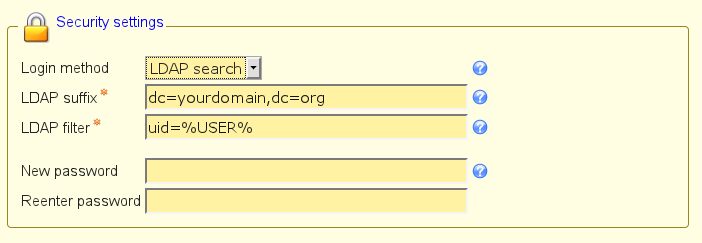
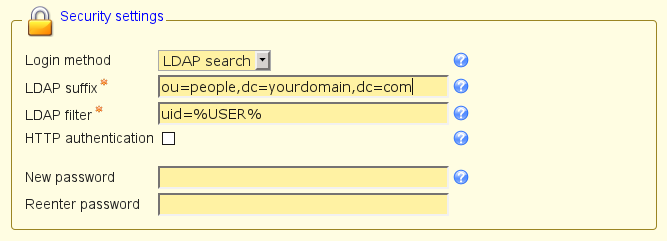
HTTP authentication

Changed region(s): [[0.0, 0.029, 0.9895, 0.9585], [0.1499, 0.3195, 0.1799, 0.3485]]

diff --git a/lam/templates/lib/500_lam.js b/lam/templates/lib/500_lam.js
@@ -157,11 +157,13 @@ function configLoginMethodChanged() {
 		jQuery('textarea[name=admins]').parent().parent().show();
 		jQuery('input[name=loginSearchSuffix]').parent().parent().hide();
 		jQuery('input[name=loginSearchFilter]').parent().parent().hide();
+		jQuery('input[name=httpAuthentication]').parent().parent().hide();
 	}
 	else {
 		jQuery('textarea[name=admins]').parent().parent().hide();
 		jQuery('input[name=loginSearchSuffix]').parent().parent().show();
 		jQuery('input[name=loginSearchFilter]').parent().parent().show();
+		jQuery('input[name=httpAuthentication]').parent().parent().show();
 	}
 }
 

diff --git a/lam/templates/login.php b/lam/templates/login.php
@@ -285,7 +285,12 @@ function display_LoginPage($config_object) {
 										echo '</select>';
 									}
 									else {
-										echo '<input type="text" name="username" tabindex="1">';
+										if ($config_object->getHttpAuthentication() == 'true') {
+											echo htmlspecialchars($_SERVER['PHP_AUTH_USER']);
+										}
+										else {
+											echo '<input type="text" name="username" tabindex="1">';
+										}
 									}
 									?>
 								</td>
@@ -297,7 +302,14 @@ function display_LoginPage($config_object) {
 									?>
 								</b>&nbsp;&nbsp;</td>
 								<td style="border-style:none" height="35" align="left">
-									<input type="password" name="passwd" tabindex="2">
+									<?php
+										if (($config_object->getLoginMethod() == LAMConfig::LOGIN_SEARCH) && ($config_object->getHttpAuthentication() == 'true')) {
+											echo '**********';
+										}
+										else {
+											echo '<input type="password" name="passwd" tabindex="2">';
+										}
+									?>
 								</td>
 							</tr>
 							<tr>
@@ -432,55 +444,55 @@ if(!empty($_POST['checklogin'])) {
 
 	$_SESSION['ldap'] = new Ldap($_SESSION['config']); // Create new Ldap object
 
-	if($_POST['passwd'] == "") {
-		logNewMessage(LOG_DEBUG, "Empty password for login");
-		$error_message = _("Empty password submitted. Please try again.");
-		display_LoginPage($_SESSION['config']); // Empty password submitted. Return to login page.
-		exit();
+	$clientSource = $_SERVER['REMOTE_ADDR'];
+	if (isset($_SERVER['REMOTE_HOST'])) {
+		$clientSource .= '/' . $_SERVER['REMOTE_HOST'];
+	}
+	if (($_SESSION['config']->getLoginMethod() == LAMConfig::LOGIN_SEARCH) && ($_SESSION['config']->getHttpAuthentication() == 'true')) {
+		$username = $_SERVER['PHP_AUTH_USER'];
+		$password = $_SERVER['PHP_AUTH_PW'];
 	}
 	else {
-		$clientSource = $_SERVER['REMOTE_ADDR'];
-		if (isset($_SERVER['REMOTE_HOST'])) {
-			$clientSource .= '/' . $_SERVER['REMOTE_HOST'];
+		if($_POST['passwd'] == "") {
+			logNewMessage(LOG_DEBUG, "Empty password for login");
+			$error_message = _("Empty password submitted. Please try again.");
+			display_LoginPage($_SESSION['config']); // Empty password submitted. Return to login page.
+			exit();
 		}
 		if (get_magic_quotes_gpc() == 1) {
 			$_POST['passwd'] = stripslashes($_POST['passwd']);
 		}
 		$username = $_POST['username'];
-		// search user in LDAP if needed
-		if ($_SESSION['config']->getLoginMethod() == LAMConfig::LOGIN_SEARCH) {
-			$searchFilter = $_SESSION['config']->getLoginSearchFilter();
-			$searchFilter = str_replace('%USER%', $username ,$searchFilter);
-			$searchSuccess = true;
-			$searchError = '';
-			$searchLDAP = new Ldap($_SESSION['config']);
-			$searchLDAPResult = $searchLDAP->connect('', '', true);
-			if (! ($searchLDAPResult == 0)) {
-				$searchSuccess = false;
-				$searchError = _('Cannot connect to specified LDAP server. Please try again.') . ' ' . @ldap_error($searchLDAP->server());
-			}
-			else {
-				$searchResult = @ldap_search($searchLDAP->server(), $_SESSION['config']->getLoginSearchSuffix(), $searchFilter, array('dn'), 0, 0, 0, LDAP_DEREF_NEVER);
-				if ($searchResult) {
-					$searchInfo = @ldap_get_entries($searchLDAP->server(), $searchResult);
-					if ($searchInfo) {
-						cleanLDAPResult($searchInfo);
-						if (sizeof($searchInfo) == 0) {
-							$searchSuccess = false;
-							$searchError = _('Wrong password/user name combination. Please try again.');
-						}
-						elseif (sizeof($searchInfo) > 1) {
-							$searchSuccess = false;
-							$searchError = _('The given user name matches multiple LDAP entries.');
-						}
-						else {
-							$username = $searchInfo[0]['dn'];
-						}
+		$password = $_POST['passwd'];
+	}
+	// search user in LDAP if needed
+	if ($_SESSION['config']->getLoginMethod() == LAMConfig::LOGIN_SEARCH) {
+		$searchFilter = $_SESSION['config']->getLoginSearchFilter();
+		$searchFilter = str_replace('%USER%', $username ,$searchFilter);
+		$searchSuccess = true;
+		$searchError = '';
+		$searchLDAP = new Ldap($_SESSION['config']);
+		$searchLDAPResult = $searchLDAP->connect('', '', true);
+		if (! ($searchLDAPResult == 0)) {
+			$searchSuccess = false;
+			$searchError = _('Cannot connect to specified LDAP server. Please try again.') . ' ' . @ldap_error($searchLDAP->server());
+		}
+		else {
+			$searchResult = @ldap_search($searchLDAP->server(), $_SESSION['config']->getLoginSearchSuffix(), $searchFilter, array('dn'), 0, 0, 0, LDAP_DEREF_NEVER);
+			if ($searchResult) {
+				$searchInfo = @ldap_get_entries($searchLDAP->server(), $searchResult);
+				if ($searchInfo) {
+					cleanLDAPResult($searchInfo);
+					if (sizeof($searchInfo) == 0) {
+						$searchSuccess = false;
+						$searchError = _('Wrong password/user name combination. Please try again.');
+					}
+					elseif (sizeof($searchInfo) > 1) {
+						$searchSuccess = false;
+						$searchError = _('The given user name matches multiple LDAP entries.');
 					}
 					else {
-						$searchSuccess = false;
-						$searchError = _('Unable to find the user name in LDAP.');
-						if (ldap_errno($searchLDAP->server()) != 0) $searchError .= ' ' . ldap_error($searchLDAP->server());
+						$username = $searchInfo[0]['dn'];
 					}
 				}
 				else {
@@ -489,53 +501,58 @@ if(!empty($_POST['checklogin'])) {
 					if (ldap_errno($searchLDAP->server()) != 0) $searchError .= ' ' . ldap_error($searchLDAP->server());
 				}
 			}
-			if (!$searchSuccess) {
-				$error_message = $searchError;
-				logNewMessage(LOG_ERR, 'User ' . $_POST['username'] . ' (' . $clientSource . ') failed to log in. ' . $searchError . '');
-				$searchLDAP->close();
-				display_LoginPage($_SESSION['config']);
-				exit();
-			}
-			$searchLDAP->close();
-		}
-		// try to connect to LDAP
-		$result = $_SESSION['ldap']->connect($username,$_POST['passwd']); // Connect to LDAP server for verifing username/password
-		if($result === 0) {// Username/password correct. Do some configuration and load main frame.
-			$_SESSION['loggedIn'] = true;
-			// set security settings for session
-			$_SESSION['sec_session_id'] = session_id();
-			$_SESSION['sec_client_ip'] = $_SERVER['REMOTE_ADDR'];
-			$_SESSION['sec_sessionTime'] = time();
-			// logging
-			logNewMessage(LOG_NOTICE, 'User ' . $_POST['username'] . ' (' . $clientSource . ') successfully logged in.');
-			// Load main frame
-			metaRefresh("./main.php");
-			die();
-		}
-		else {
-			if ($result === False) {
-				// connection failed
-				$error_message = _("Cannot connect to specified LDAP server. Please try again.");
-				logNewMessage(LOG_ERR, 'User ' . $_POST['username'] . ' (' . $clientSource . ') failed to log in (LDAP error: ' . ldap_err2str($result) . ').');
-			}
-			elseif ($result == 81) {
-				// connection failed
-				$error_message = _("Cannot connect to specified LDAP server. Please try again.");
-				logNewMessage(LOG_ERR, 'User ' . $_POST['username'] . ' (' . $clientSource . ') failed to log in (LDAP error: ' . ldap_err2str($result) . ').');
-			}
-			elseif ($result == 49) {
-				// user name/password invalid. Return to login page.
-				$error_message = _("Wrong password/user name combination. Please try again.");
-				logNewMessage(LOG_ERR, 'User ' . $_POST['username'] . ' (' . $clientSource . ') failed to log in (wrong password).');
-			}
 			else {
-				// other errors
-				$error_message = _("LDAP error, server says:") .  "\n<br>($result) " . ldap_err2str($result);
-				logNewMessage(LOG_ERR, 'User ' . $_POST['username'] . ' (' . $clientSource . ') failed to log in (LDAP error: ' . ldap_err2str($result) . ').');
+				$searchSuccess = false;
+				$searchError = _('Unable to find the user name in LDAP.');
+				if (ldap_errno($searchLDAP->server()) != 0) $searchError .= ' ' . ldap_error($searchLDAP->server());
 			}
+		}
+		if (!$searchSuccess) {
+			$error_message = $searchError;
+			logNewMessage(LOG_ERR, 'User ' . $username . ' (' . $clientSource . ') failed to log in. ' . $searchError . '');
+			$searchLDAP->close();
 			display_LoginPage($_SESSION['config']);
 			exit();
 		}
+		$searchLDAP->close();
+	}
+	// try to connect to LDAP
+	$result = $_SESSION['ldap']->connect($username, $password); // Connect to LDAP server for verifing username/password
+	if($result === 0) {// Username/password correct. Do some configuration and load main frame.
+		$_SESSION['loggedIn'] = true;
+		// set security settings for session
+		$_SESSION['sec_session_id'] = session_id();
+		$_SESSION['sec_client_ip'] = $_SERVER['REMOTE_ADDR'];
+		$_SESSION['sec_sessionTime'] = time();
+		// logging
+		logNewMessage(LOG_NOTICE, 'User ' . $username . ' (' . $clientSource . ') successfully logged in.');
+		// Load main frame
+		metaRefresh("./main.php");
+		die();
+	}
+	else {
+		if ($result === False) {
+			// connection failed
+			$error_message = _("Cannot connect to specified LDAP server. Please try again.");
+			logNewMessage(LOG_ERR, 'User ' . $username . ' (' . $clientSource . ') failed to log in (LDAP error: ' . ldap_err2str($result) . ').');
+		}
+		elseif ($result == 81) {
+			// connection failed
+			$error_message = _("Cannot connect to specified LDAP server. Please try again.");
+			logNewMessage(LOG_ERR, 'User ' . $username . ' (' . $clientSource . ') failed to log in (LDAP error: ' . ldap_err2str($result) . ').');
+		}
+		elseif ($result == 49) {
+			// user name/password invalid. Return to login page.
+			$error_message = _("Wrong password/user name combination. Please try again.");
+			logNewMessage(LOG_ERR, 'User ' . $username . ' (' . $clientSource . ') failed to log in (wrong password).');
+		}
+		else {
+			// other errors
+			$error_message = _("LDAP error, server says:") .  "\n<br>($result) " . ldap_err2str($result);
+			logNewMessage(LOG_ERR, 'User ' . $username . ' (' . $clientSource . ') failed to log in (LDAP error: ' . ldap_err2str($result) . ').');
+		}
+		display_LoginPage($_SESSION['config']);
+		exit();
 	}
 }
 

diff --git a/lam/templates/config/confmain.php b/lam/templates/config/confmain.php
@@ -358,6 +358,8 @@ $securitySettingsContent->addElement($searchSuffixInput, true);
 $searchFilterInput = new htmlTableExtendedInputField(_("LDAP filter"), 'loginSearchFilter', $conf->getLoginSearchFilter(), '221');
 $searchFilterInput->setRequired(true);
 $securitySettingsContent->addElement($searchFilterInput, true);
+// HTTP authentication
+$securitySettingsContent->addElement(new htmlTableExtendedInputCheckbox('httpAuthentication', ($conf->getHttpAuthentication() == 'true'), _('HTTP authentication'), '223', true), true);
 $securitySettingsContent->addElement(new htmlSpacer(null, '10px'), true);
 // new password
 $password1 = new htmlTableExtendedInputField(_("New password"), 'passwd1', null, '212');
@@ -443,6 +445,12 @@ function checkInput() {
 	$conf->setLoginMethod($_POST['loginMethod']);
 	$conf->setLoginSearchFilter($_POST['loginSearchFilter']);
 	$conf->setLoginSearchSuffix($_POST['loginSearchSuffix']);
+	if (isset($_POST['httpAuthentication']) && ($_POST['httpAuthentication'] == 'on')) {
+		$conf->setHttpAuthentication('true');
+	}
+	else {
+		$conf->setHttpAuthentication('false');
+	}
 	if (!$conf->set_Adminstring(implode(";", $adminTextNew))) {
 		$errors[] = array("ERROR", _("List of admin users is empty or invalid!"));
 	}
